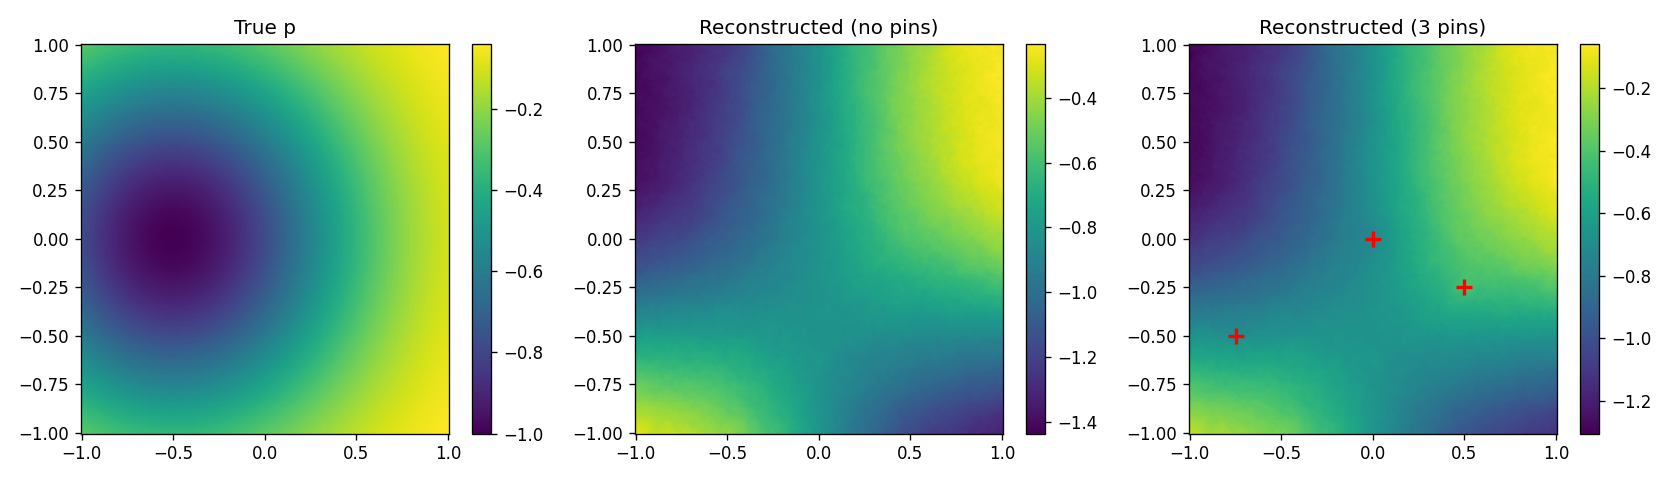
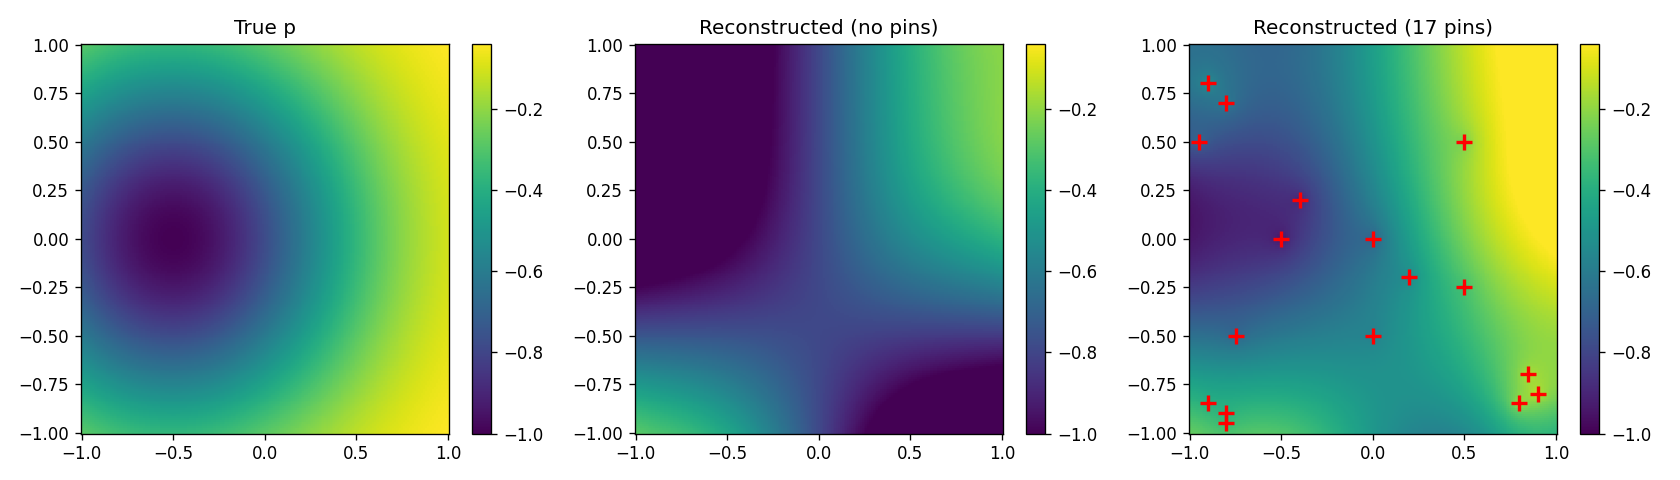
minor updates and a notes file

diff --git a/demo.py b/demo.py
@@ -27,7 +27,7 @@ gx_true, gy_true = ndgrid_gradient(p_true, ds, ds)
 
 # --- add noise to the gradient ---
 rng = np.random.default_rng(42)
-var_x, var_y = 1.0, 1.0
+var_x, var_y = 0.001, 0.001
 gx_noisy = gx_true + np.sqrt(var_x) * rng.standard_normal(X.shape)
 gy_noisy = gy_true + np.sqrt(var_y) * rng.standard_normal(X.shape)
 
@@ -43,10 +43,10 @@ print(f"  elapsed: {time.perf_counter() - t0:.3f} s")
 P_unpinned -= P_unpinned[0, 0] - p_true[0, 0]
 
 # --- solve with three pinned interior points ---
-pin_ij = [(25, 50), (100, 100), (150, 75)]
+pin_ij = [(25, 50), (100, 100), (150, 75), (20, 10), (10,15), (20,5), (5, 150), (10,180), (20, 170), (180, 15), (185, 30), (190, 20), (100,50), (120, 80), (150, 150), (50,100), (60, 120)]
 pinned = {ij: float(p_true[ij]) for ij in pin_ij}
 
-print("Solving with 3 pinned interior points …")
+print(f"Solving with {len(pinned)} pinned interior points …")
 t0 = time.perf_counter()
 P_pinned, _, _ = poisson_solver(ds, gx_noisy, gy_noisy, domain_mask,
                                 pinned_points=pinned)
@@ -64,18 +64,21 @@ print(f"\nMAE (unpinned): {err_unpinned.mean():.4f}")
 print(f"MAE (pinned):   {err_pinned.mean():.4f}")
 
 # --- plot ---
+vmin = p_true.min()
+vmax = p_true.max()
+
 fig, axes = plt.subplots(1, 3, figsize=(14, 4))
 
-im0 = axes[0].pcolormesh(X, Y, p_true, shading='auto')
+im0 = axes[0].pcolormesh(X, Y, p_true, shading='auto', vmin=vmin, vmax=vmax)
 axes[0].set_title('True p')
 plt.colorbar(im0, ax=axes[0])
 
-im1 = axes[1].pcolormesh(X, Y, P_unpinned, shading='auto')
+im1 = axes[1].pcolormesh(X, Y, P_unpinned, shading='auto', vmin=vmin, vmax=vmax)
 axes[1].set_title('Reconstructed (no pins)')
 plt.colorbar(im1, ax=axes[1])
 
-im2 = axes[2].pcolormesh(X, Y, P_pinned, shading='auto')
-axes[2].set_title('Reconstructed (3 pins)')
+im2 = axes[2].pcolormesh(X, Y, P_pinned, shading='auto', vmin=vmin, vmax=vmax)
+axes[2].set_title(f'Reconstructed ({len(pinned)} pins)')
 for ij in pin_ij:
     axes[2].plot(x[ij[0]], y[ij[1]], 'r+', markersize=10, markeredgewidth=2)
 plt.colorbar(im2, ax=axes[2])
